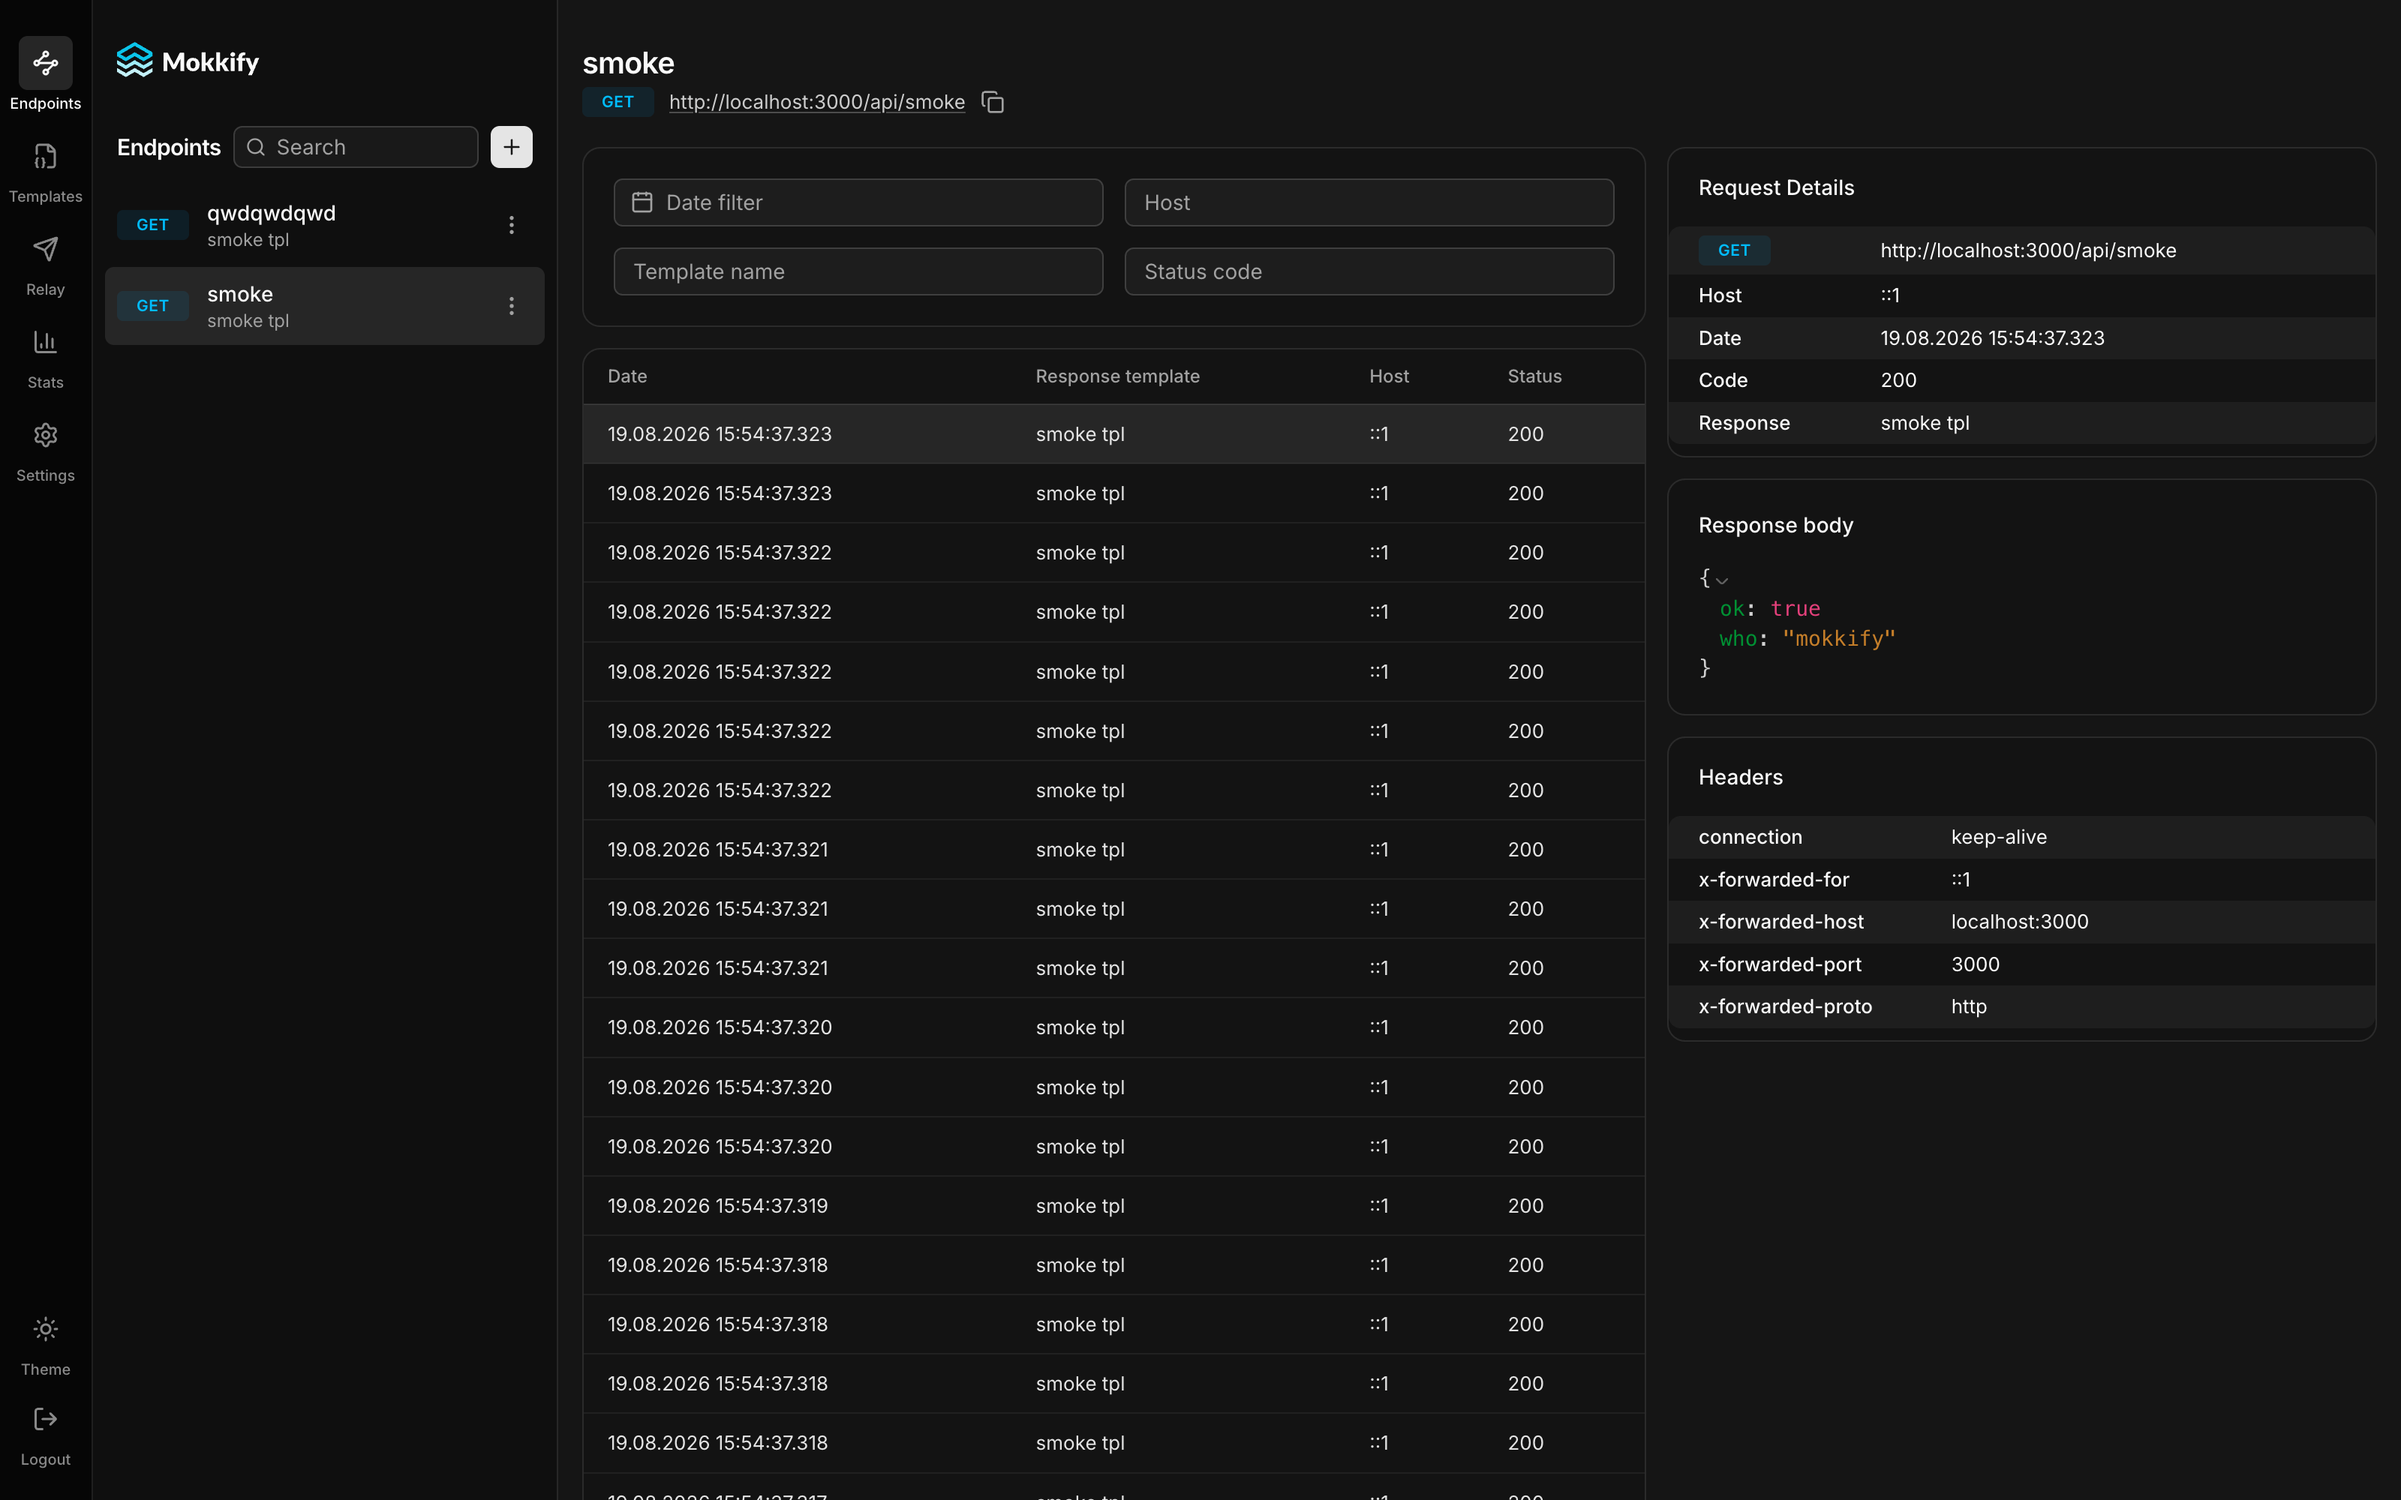
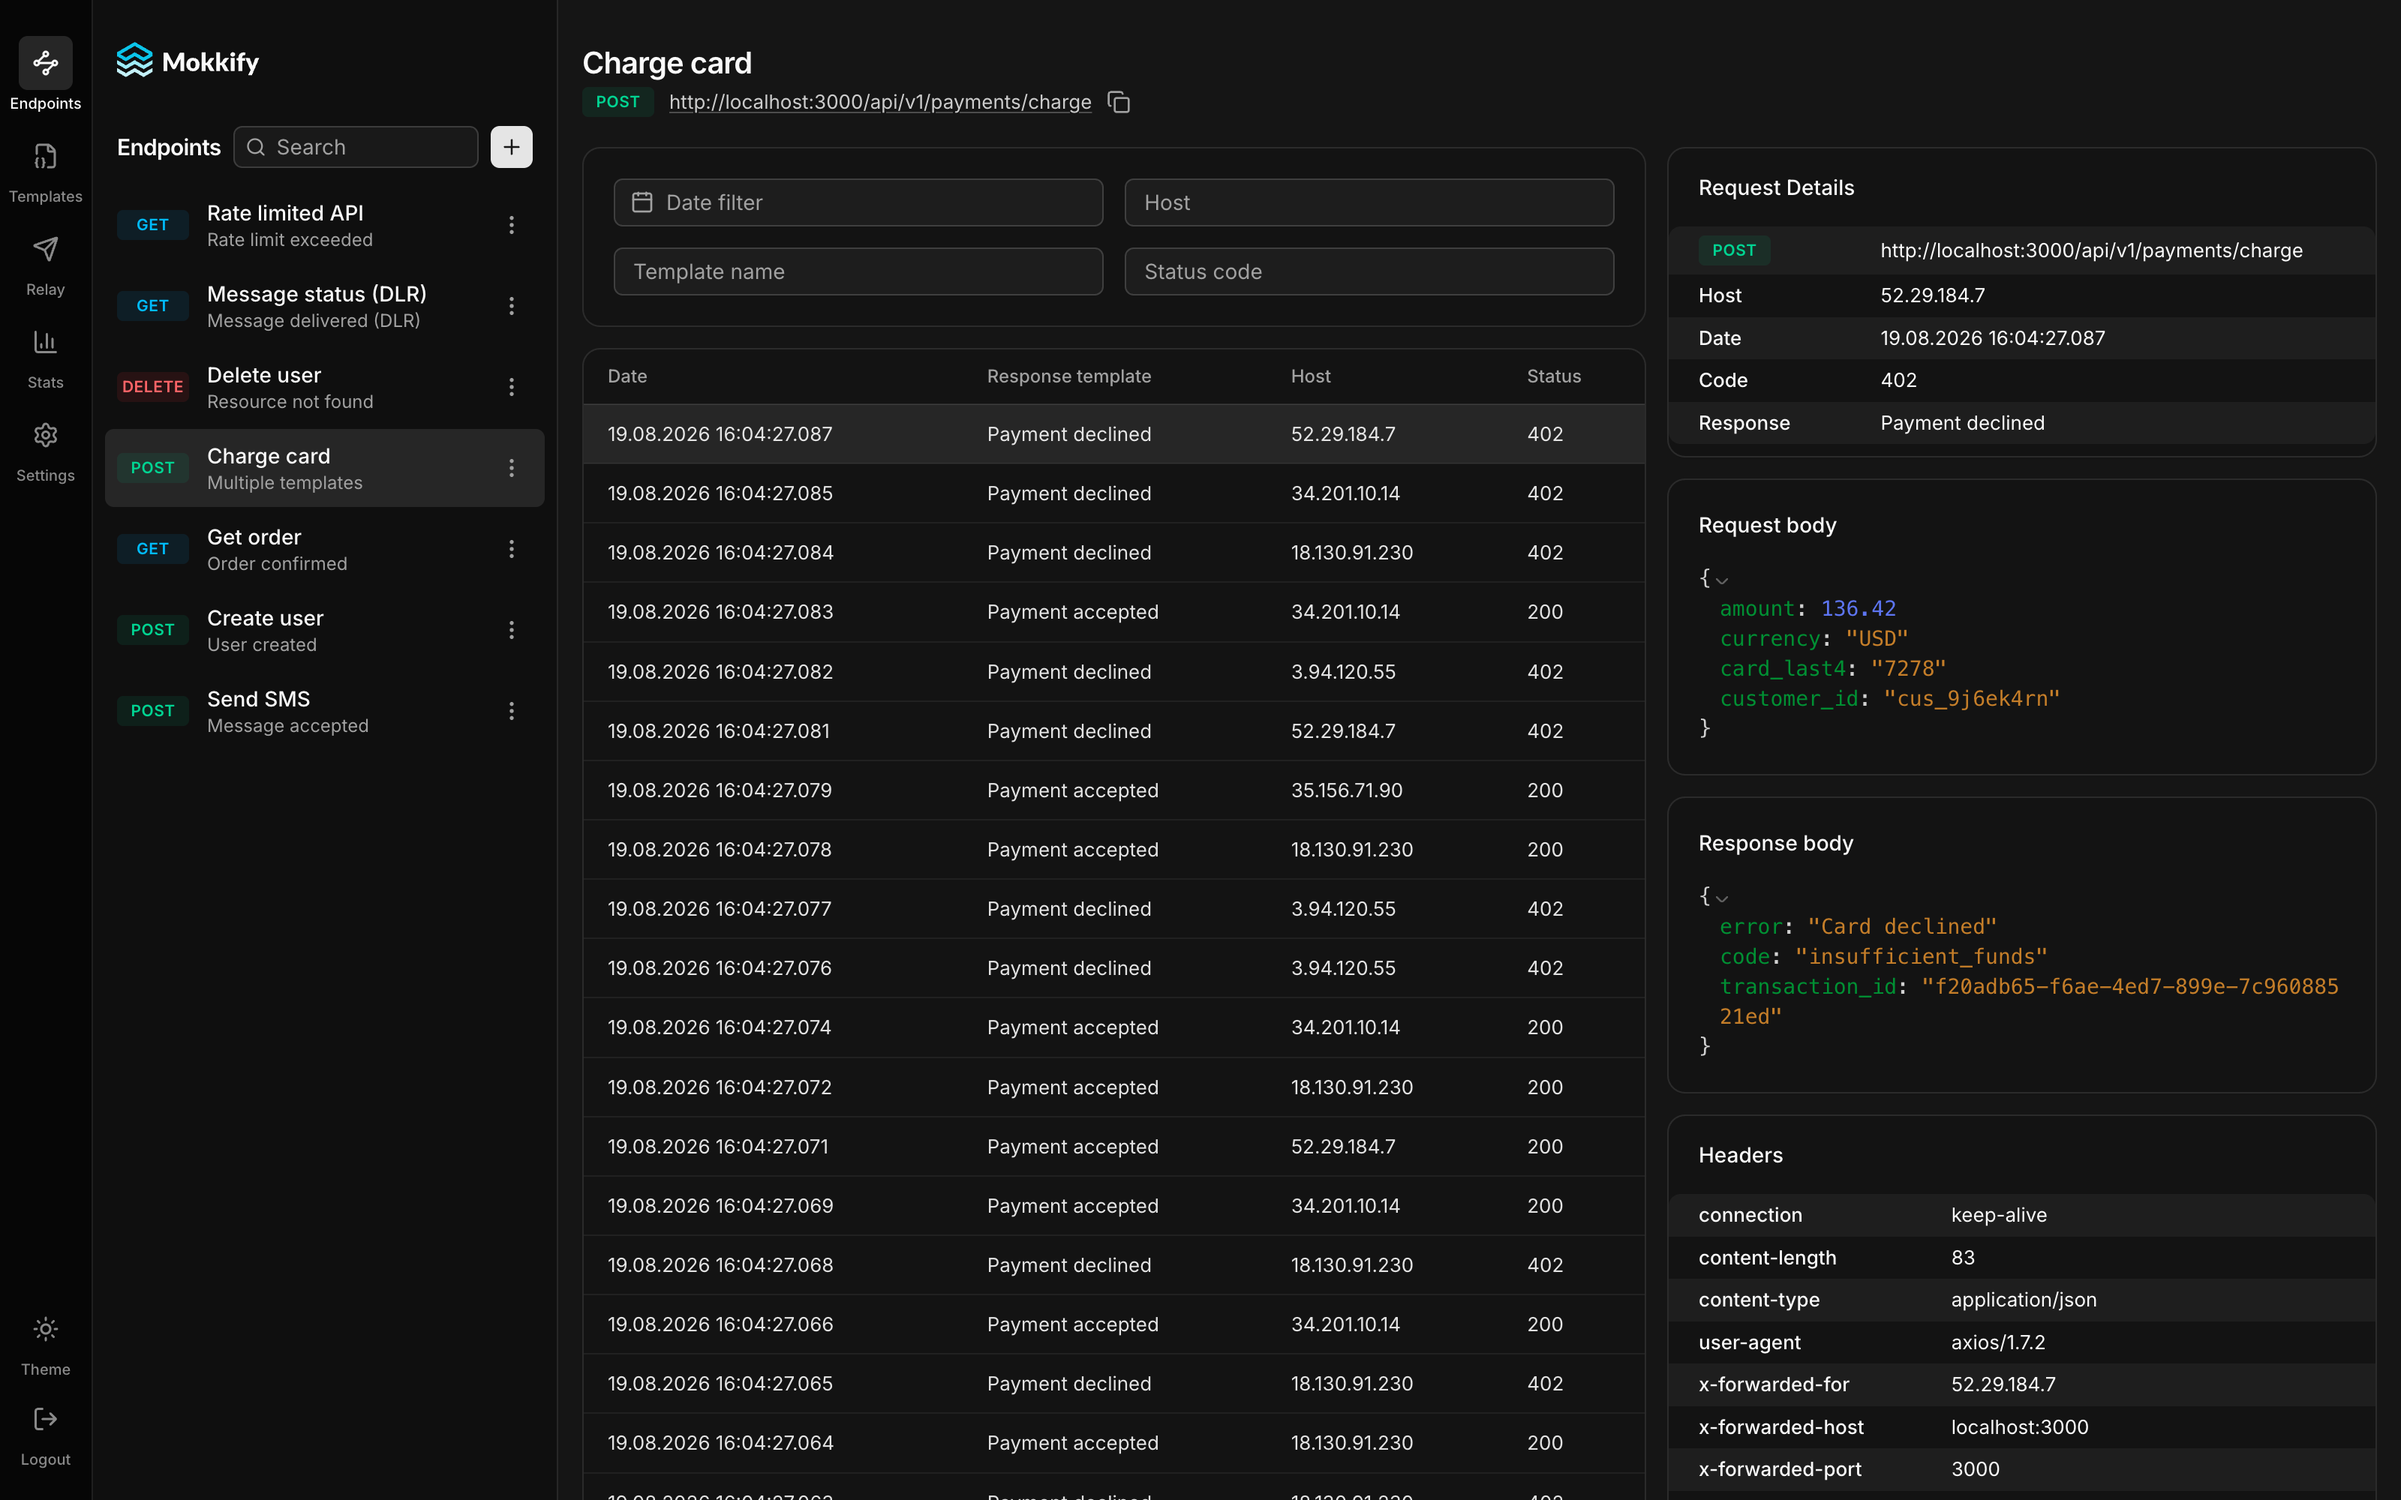
Fix crash on numeric template variables; refresh README screenshots
parseVars called value.replaceAll() on non-string values, so any template
referencing a numeric request field (e.g. @request.amount) threw and the
endpoint answered 404 without logging the request. Guard the newline
escaping with a typeof check.

README screenshots are now populated with realistic demo entities
(payments, messaging, users) instead of test leftovers.

diff --git a/src/app/backend/helpers.ts b/src/app/backend/helpers.ts
@@ -89,7 +89,7 @@ const parseVars = (
       value = parseVar(key)
     }
 
-    if (value) value = value.replaceAll("\n", "\\n")
+    if (typeof value === "string") value = value.replaceAll("\n", "\\n")
 
     result = paramsReplace
       ? result.replace(`":@${key}`, `":${value}`)
